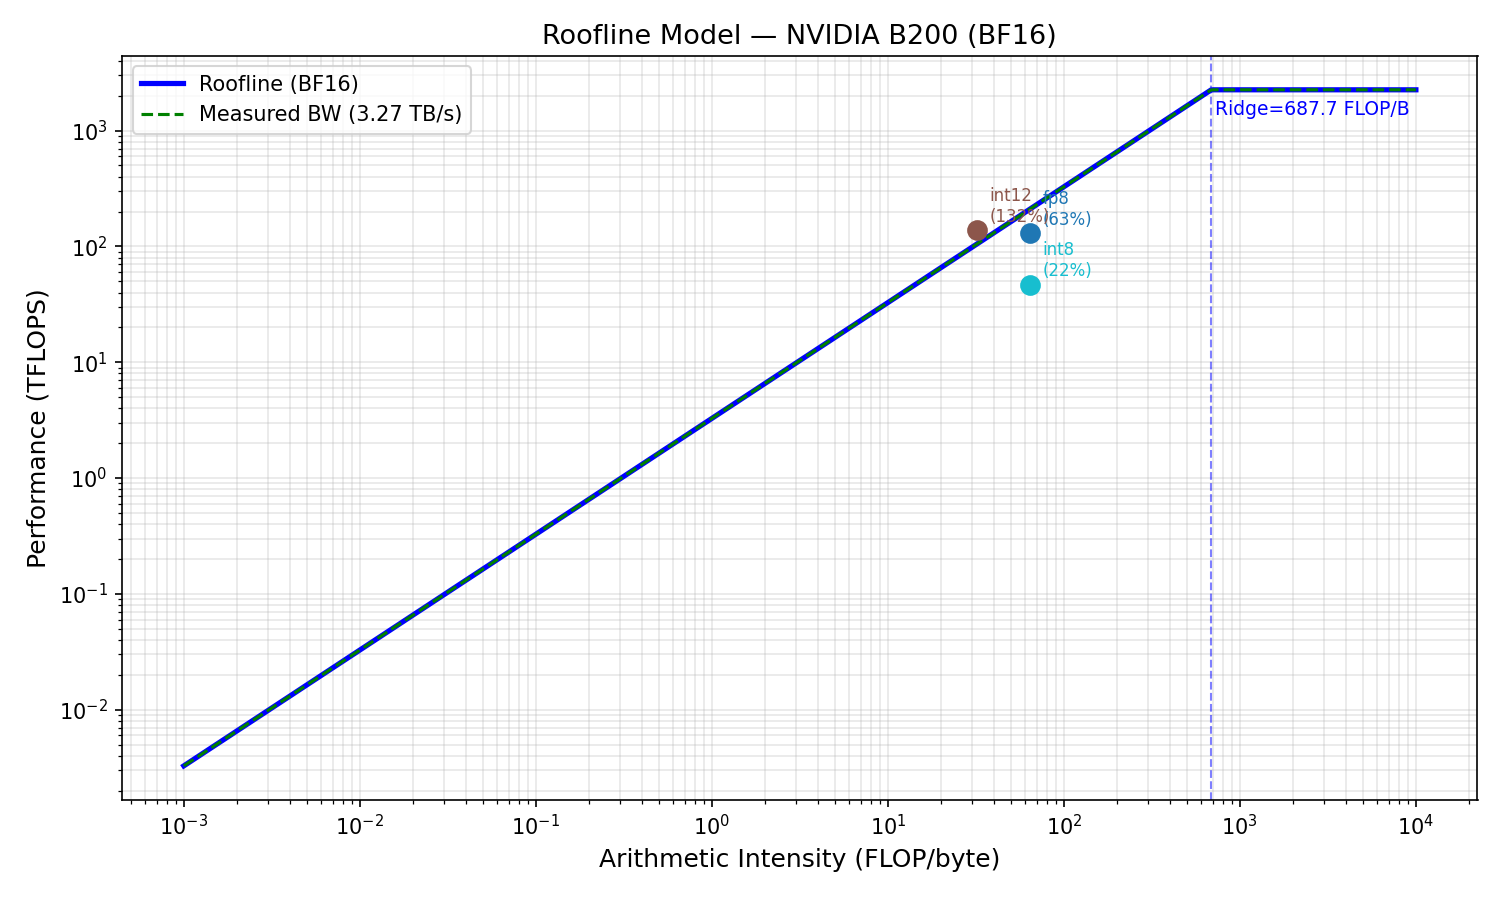
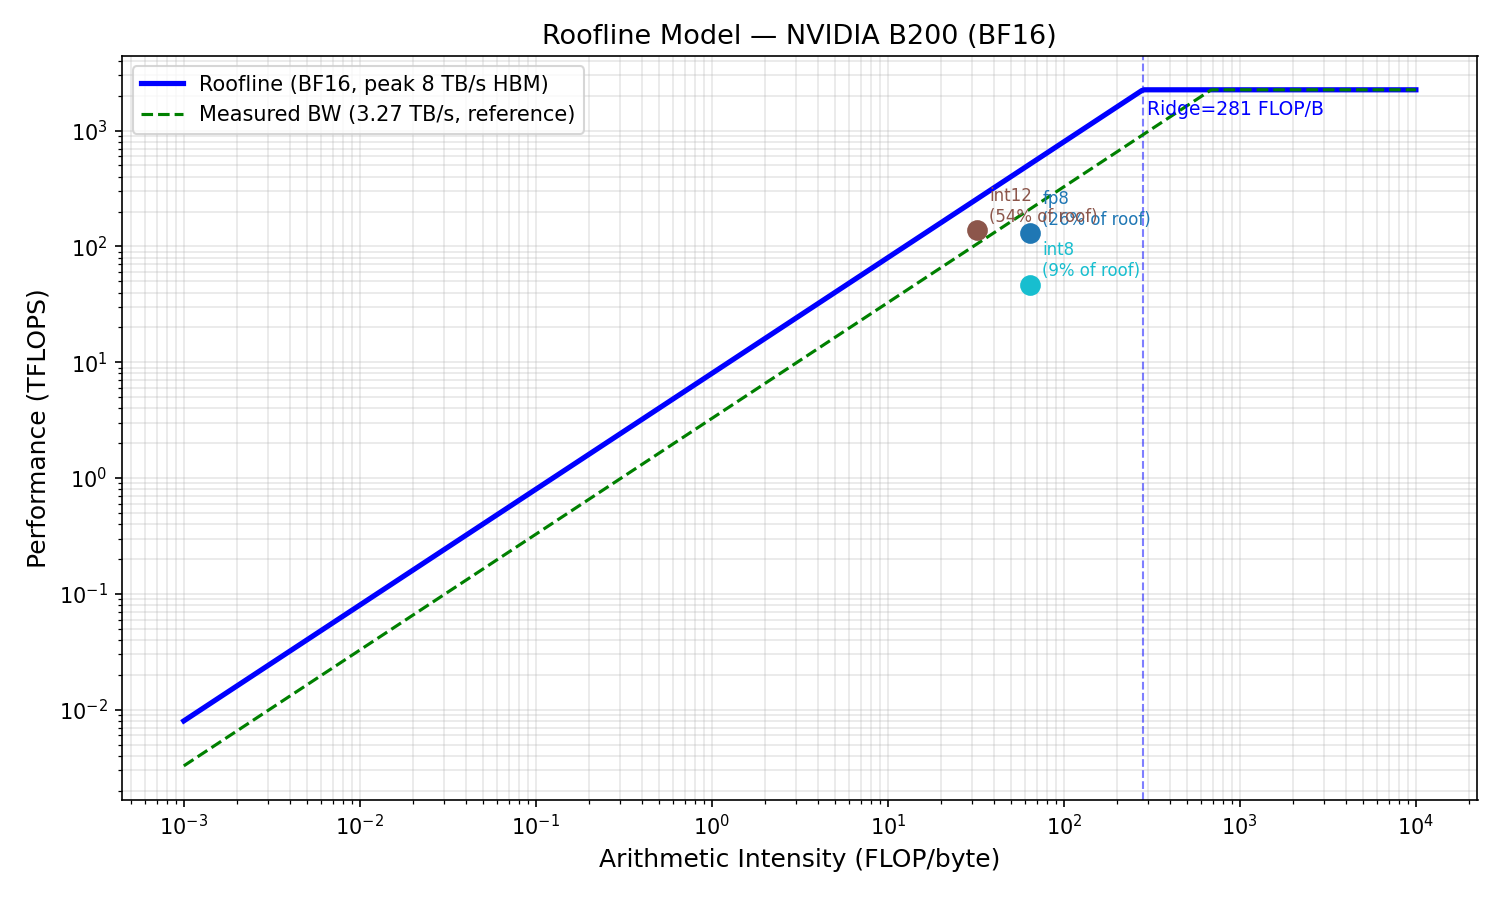
Fix roofline.py + add quantization memory study (script 09)
roofline.py fix:
- Primary roof now always uses theoretical peak HBM BW (8.0 TB/s)
- measured_bw_TBps is a reference line only, never replaces the theoretical ceiling
- Was causing inference roofline points to appear above the roof because mean BW
  (~3.2 TB/s) was used as the ceiling instead of 8.0 TB/s

Regenerated roofline plots: inference + training now correct

Script 09 — quantization_memory_study.py:
Benchmarks 4 execution paths for a single linear layer (N=4096, K=14336):
  bf16, fp8_native (_scaled_mm), int8_native (_int_mm), int8_dequant (cast+matmul)
Plus isolated dequant-only kernel.

Key results:
  Dequant-only: AI=0.33 FLOP/byte — deeply memory-bound (0.33 << 281 ridge)
  int8_dequant at M=512: 156 TFLOPS vs int8_native 1539 TFLOPS (9.9x slower!)
  fp8_native vs int8_dequant at M=2048: 2934 vs 399 TFLOPS (7.4x)
  int8_native approaches fp8_native at large M (both compute-bound)

diff --git a/B200/scripts/09_quantization_memory_study.py b/B200/scripts/09_quantization_memory_study.py
@@ -1,0 +1,282 @@
+#!/usr/bin/env python3
+"""
+Study: Memory vs Compute effects of quantization — NVIDIA B200
+Isolates three execution paths for a linear layer:
+  1. BF16          — baseline: load 2B/param, matmul in BF16 TC
+  2. INT8 native   — load 1B/param, matmul in INT8 TC (torch._int_mm), dequant output only
+  3. INT8 dequant  — load 1B/param, dequant weights to BF16, matmul in BF16 TC (bitsandbytes path)
+  4. FP8 native    — load 1B/param, matmul in FP8 TC (torch._scaled_mm)
+  5. Dequant-only  — measures dequantization kernel alone (INT8→BF16 cast)
+
+Also plots roofline positions for each path.
+"""
+import os, sys, time
+import torch
+import torch.nn as nn
+import numpy as np
+import pandas as pd
+import matplotlib
+matplotlib.use("Agg")
+import matplotlib.pyplot as plt
+
+sys.path.insert(0, os.path.dirname(__file__))
+from utils.roofline import plot_roofline, MEM_BW_TBps, DTYPE_PEAK
+from utils.plotting import save_fig
+
+OUT  = os.path.join(os.path.dirname(__file__), "..", "results", "quant_study")
+GOUT = os.path.join(os.path.dirname(__file__), "..", "graphs", "quant_study")
+os.makedirs(OUT,  exist_ok=True)
+os.makedirs(GOUT, exist_ok=True)
+
+DEVICE  = "cuda"
+TDP_W   = 1000.0
+WARMUP  = 20
+ITERS   = 200
+
+# ── Sizes to sweep (M=batch*seq tokens, N=d_model, K=ffn_dim for a linear layer) ──
+# Use shapes representative of a 7-8B LLM FFN projection
+SHAPES = [
+    (1,    4096, 14336),   # BS=1  decode  — memory-bound extreme
+    (8,    4096, 14336),   # BS=8  decode
+    (32,   4096, 14336),   # BS=32 decode  — approaching ridge
+    (128,  4096, 14336),   # BS=128 prefill
+    (512,  4096, 14336),   # BS=512 prefill — compute-bound territory
+    (2048, 4096, 14336),   # Large prefill
+]
+
+# ── Benchmark helpers ──────────────────────────────────────────────────────────
+def bench(fn, warmup=WARMUP, iters=ITERS):
+    """Returns mean latency (ms) and throughput FLOP/s."""
+    for _ in range(warmup):
+        fn()
+    torch.cuda.synchronize()
+    t0 = time.perf_counter()
+    for _ in range(iters):
+        fn()
+    torch.cuda.synchronize()
+    return (time.perf_counter() - t0) * 1e3 / iters   # ms per call
+
+def tflops_from_gemm(M, N, K, ms):
+    """TFLOPS for a M×K @ K×N matmul."""
+    return 2 * M * N * K / (ms * 1e-3) / 1e12
+
+def mem_bytes_gemm(M, N, K, a_bytes, b_bytes, c_bytes=2):
+    """Approximate memory traffic for a matmul (load A, load B, write C)."""
+    return M * K * a_bytes + K * N * b_bytes + M * N * c_bytes
+
+# ── Execution paths ───────────────────────────────────────────────────────────
+def run_bf16(M, N, K):
+    W = torch.randn(N, K, device=DEVICE, dtype=torch.bfloat16)
+    x = torch.randn(M, K, device=DEVICE, dtype=torch.bfloat16)
+    ms = bench(lambda: torch.nn.functional.linear(x, W))
+    tflops = tflops_from_gemm(M, N, K, ms)
+    # Mem: load x (BF16) + load W (BF16) + write y (BF16)
+    mem = mem_bytes_gemm(M, N, K, 2, 2, 2)
+    ai = 2 * M * N * K / mem
+    return ms, tflops, ai, mem
+
+def run_fp8_native(M, N, K):
+    """FP8 native via torch._scaled_mm — no dequantization.
+    cuBLASLt requires: A row-major (M,K), B col-major (K,N).
+    W stored as (N,K) row-major; W.T gives (K,N) col-major without copying.
+    """
+    W = torch.randn(N, K, device=DEVICE, dtype=torch.bfloat16).to(torch.float8_e4m3fn)
+    x = torch.randn(M, K, device=DEVICE, dtype=torch.bfloat16).to(torch.float8_e4m3fn)
+    scale_a = torch.tensor(1.0, device=DEVICE)
+    scale_b = torch.tensor(1.0, device=DEVICE)
+    # W.T is (K,N) col-major — the layout cuBLASLt FP8 expects for B
+    W_t = W.T   # do NOT call .contiguous() — that would make it row-major again
+    try:
+        ms = bench(lambda: torch._scaled_mm(x, W_t,
+                                             scale_a=scale_a, scale_b=scale_b,
+                                             out_dtype=torch.bfloat16))
+        tflops = tflops_from_gemm(M, N, K, ms)
+        mem = mem_bytes_gemm(M, N, K, 1, 1, 2)
+        ai = 2 * M * N * K / mem
+        return ms, tflops, ai, mem
+    except Exception as e:
+        print(f"    FP8 native skip: {e}")
+        return None, None, None, None
+
+def run_int8_native(M, N, K):
+    """INT8 native via torch._int_mm — no dequantization of weights.
+    Weights and activations in INT8, output accumulates in INT32.
+    This is the 'pure memory bandwidth' path: loads 1 byte/param, no extra passes.
+    torch._int_mm requires M >= 16; pad if needed.
+    """
+    M_actual = M
+    M = max(M, 17)   # _int_mm requires M > 16 (strictly greater)
+    W_fp = torch.randn(N, K, device=DEVICE)
+    x_fp = torch.randn(M, K, device=DEVICE)
+    W = (W_fp * 127 / W_fp.abs().max()).round().clamp(-128, 127).to(torch.int8)
+    x = (x_fp * 127 / x_fp.abs().max()).round().clamp(-128, 127).to(torch.int8)
+    # _int_mm requires contiguous row-major layout
+    W_t = W.T.contiguous()
+    ms = bench(lambda: torch._int_mm(x, W_t))
+    M = M_actual   # restore for AI/mem calculation
+    tflops = tflops_from_gemm(M, N, K, ms)
+    # Memory: load x (INT8) + load W (INT8) + write out (INT32 = 4B)
+    mem = mem_bytes_gemm(M, N, K, 1, 1, 4)
+    ai = 2 * M * N * K / mem
+    return ms, tflops, ai, mem
+
+def run_int8_dequant(M, N, K):
+    """INT8 weights → dequantize to BF16 → BF16 matmul.
+    Simulates bitsandbytes LLM.int8() inference path.
+    """
+    W_fp = torch.randn(N, K, device=DEVICE)
+    x    = torch.randn(M, K, device=DEVICE, dtype=torch.bfloat16)
+    W_i8 = (W_fp * 127 / W_fp.abs().max()).round().clamp(-128, 127).to(torch.int8)
+    scale = W_fp.abs().max() / 127.0
+
+    def _forward():
+        # Step 1: dequantize INT8 → BF16  (the extra pass bitsandbytes adds)
+        W_bf16 = W_i8.to(torch.bfloat16) * scale
+        # Step 2: matmul in BF16
+        return torch.nn.functional.linear(x, W_bf16)
+
+    ms = bench(_forward)
+    tflops = tflops_from_gemm(M, N, K, ms)
+    # Memory: load W_i8 (INT8) + write W_bf16 (BF16) + read W_bf16 again (BF16) + load x (BF16) + write y
+    # = K*N*1 + K*N*2 + K*N*2 + M*K*2 + M*N*2
+    mem = K*N*1 + K*N*2 + K*N*2 + M*K*2 + M*N*2
+    ai = 2 * M * N * K / mem
+    return ms, tflops, ai, mem
+
+def run_dequant_only(M, N, K):
+    """Measure the dequantization kernel alone (INT8 → BF16 cast + scale).
+    No matmul. Shows the pure overhead added by bitsandbytes-style path.
+    """
+    W_i8 = torch.randint(-128, 127, (N, K), device=DEVICE, dtype=torch.int8)
+    scale = torch.tensor(0.01, device=DEVICE)
+
+    def _dequant():
+        return W_i8.to(torch.bfloat16) * scale
+
+    ms = bench(_dequant)
+    # Memory: read N*K INT8 bytes + write N*K BF16 bytes
+    mem = N * K * 1 + N * K * 2
+    flops = N * K   # one multiply per element
+    ai = flops / mem
+    tflops = flops / (ms * 1e-3) / 1e12
+    return ms, tflops, ai, mem
+
+# ── Main ──────────────────────────────────────────────────────────────────────
+def main():
+    print("=" * 70)
+    print("  Quantization Memory Study — NVIDIA B200")
+    print("  Isolating: bf16 / fp8_native / int8_native / int8_dequant / dequant_only")
+    print("=" * 70)
+
+    results = []
+    paths = [
+        ("bf16",         run_bf16,         DTYPE_PEAK["bf16"]),
+        ("fp8_native",   run_fp8_native,    DTYPE_PEAK["fp8"]),
+        ("int8_native",  run_int8_native,   DTYPE_PEAK["int8"]),
+        ("int8_dequant", run_int8_dequant,  DTYPE_PEAK["bf16"]),  # effective ceil = bf16
+    ]
+
+    for M, N, K in SHAPES:
+        print(f"\n── M={M:5d}  N={N}  K={K} ──")
+        for label, fn, peak in paths:
+            ms, tflops, ai, mem = fn(M, N, K)
+            if ms is None:
+                continue
+            mem_bw_util = (mem / (ms * 1e-3)) / (MEM_BW_TBps * 1e12) * 100
+            mfu = tflops / peak * 100
+            print(f"  {label:16s}  {ms:7.3f} ms  {tflops:7.1f} TFLOPS  "
+                  f"AI={ai:7.1f}  BW_util={mem_bw_util:5.1f}%  MFU={mfu:5.1f}%")
+            results.append(dict(M=M, N=N, K=K, path=label,
+                                ms=ms, tflops=tflops, ai=ai,
+                                mem_bytes=mem, mem_bw_util=mem_bw_util, mfu=mfu))
+
+    # Dequant-only across sizes
+    print(f"\n── Dequant-only kernel (INT8→BF16, no matmul) ──")
+    dq_results = []
+    for M, N, K in SHAPES:
+        ms, tflops, ai, mem = run_dequant_only(M, N, K)
+        bw_util = (mem / (ms * 1e-3)) / (MEM_BW_TBps * 1e12) * 100
+        print(f"  N={N} K={K}  {ms:.3f} ms  AI={ai:.3f}  BW_util={bw_util:.1f}%  "
+              f"{'MEMORY-BOUND' if ai < 281 else 'COMPUTE-BOUND'}")
+        dq_results.append(dict(M=M, N=N, K=K, ms=ms, tflops=tflops,
+                                ai=ai, mem_bw_util=bw_util))
+
+    df = pd.DataFrame(results)
+    df_dq = pd.DataFrame(dq_results)
+    df.to_csv(f"{OUT}/quant_paths_comparison.csv", index=False)
+    df_dq.to_csv(f"{OUT}/dequant_only.csv", index=False)
+    print(f"\n  Saved CSVs → {OUT}/")
+
+    # ── Plot 1: Latency vs Batch Size (N=4096, K=14336) ──────────────────────
+    fig, axes = plt.subplots(1, 3, figsize=(16, 5))
+    fig.suptitle("Linear Layer: BF16 vs FP8 Native vs INT8 Native vs INT8+Dequant\n"
+                 f"N={N}, K={K} (LLM FFN projection)", fontsize=11)
+
+    colors = {"bf16": "#2196F3", "fp8_native": "#4CAF50",
+              "int8_native": "#FF9800", "int8_dequant": "#F44336"}
+
+    for path, grp in df.groupby("path"):
+        grp = grp.sort_values("M")
+        c = colors.get(path, "gray")
+        axes[0].plot(grp["M"], grp["ms"],       "o-", lw=2, label=path, color=c)
+        axes[1].plot(grp["M"], grp["tflops"],   "o-", lw=2, label=path, color=c)
+        axes[2].plot(grp["M"], grp["mem_bw_util"], "o-", lw=2, label=path, color=c)
+
+    axes[0].set_xlabel("Batch Tokens (M)"); axes[0].set_ylabel("Latency (ms)")
+    axes[0].set_title("Latency"); axes[0].set_xscale("log"); axes[0].legend(fontsize=8)
+    axes[1].set_xlabel("Batch Tokens (M)"); axes[1].set_ylabel("TFLOPS")
+    axes[1].set_title("Achieved TFLOPS"); axes[1].set_xscale("log"); axes[1].legend(fontsize=8)
+    axes[2].set_xlabel("Batch Tokens (M)"); axes[2].set_ylabel("HBM BW Util (%)")
+    axes[2].set_title("Memory BW Utilization"); axes[2].set_xscale("log"); axes[2].legend(fontsize=8)
+    for ax in axes: ax.grid(alpha=0.3)
+    plt.tight_layout()
+    save_fig(fig, f"{GOUT}/latency_vs_batch.png")
+
+    # ── Plot 2: Roofline ──────────────────────────────────────────────────────
+    # Pick the highest-M (most compute-bound) row for each path to show ceiling
+    roofline_pts = {}
+    for path, grp in df.groupby("path"):
+        best = grp.loc[grp["M"].idxmax()]
+        roofline_pts[path] = (best["ai"], best["tflops"])
+    # Add dequant-only
+    dq_best = df_dq.loc[df_dq["M"].idxmax()]
+    roofline_pts["dequant_only"] = (dq_best["ai"], dq_best["tflops"])
+    plot_roofline(roofline_pts, dtype="bf16",
+                  out_path=f"{GOUT}/roofline_quant_paths.png")
+
+    # ── Plot 3: Dequant overhead — latency breakdown ──────────────────────────
+    # For each M: bar showing int8_native vs int8_dequant, and the difference = dequant cost
+    m_vals = sorted(df["M"].unique())
+    x = np.arange(len(m_vals))
+    w = 0.25
+    fig, ax = plt.subplots(figsize=(12, 5))
+    for i, path in enumerate(["bf16", "int8_native", "int8_dequant"]):
+        sub = df[df["path"] == path].sort_values("M")
+        ax.bar(x + i*w, sub["ms"].values, w, label=path, color=list(colors.values())[i], alpha=0.85)
+    ax.set_xticks(x + w)
+    ax.set_xticklabels([f"M={m}" for m in m_vals], rotation=20, ha="right")
+    ax.set_ylabel("Latency (ms)")
+    ax.set_title("Latency Breakdown: where does INT8+dequant lose time?")
+    ax.legend(); ax.grid(axis="y", alpha=0.3)
+    plt.tight_layout()
+    save_fig(fig, f"{GOUT}/dequant_overhead_bar.png")
+
+    # ── Plot 4: Dequant-only bandwidth utilization ────────────────────────────
+    fig, ax = plt.subplots(figsize=(8, 4))
+    ax.bar([f"M={r['M']}" for _, r in df_dq.iterrows()],
+           df_dq["mem_bw_util"], color="#9C27B0", alpha=0.8)
+    ax.axhline(100, color="red", lw=1.5, ls="--", label="100% HBM BW")
+    ax.set_ylabel("HBM BW Utilization (%)")
+    ax.set_title(f"Dequantization Kernel (INT8→BF16): AI = {df_dq['ai'].iloc[0]:.2f} FLOP/byte\n"
+                 "Deeply memory-bound — saturates ~100% of HBM bandwidth")
+    ax.legend(); ax.grid(axis="y", alpha=0.3)
+    plt.tight_layout()
+    save_fig(fig, f"{GOUT}/dequant_bw_util.png")
+
+    print(f"\n  Graphs → {GOUT}/")
+    print("=" * 70)
+    print("  Quantization Memory Study Complete.")
+    print("=" * 70)
+
+if __name__ == "__main__":
+    main()

diff --git a/B200/scripts/utils/roofline.py b/B200/scripts/utils/roofline.py
@@ -67,29 +67,33 @@ def plot_roofline(points: dict, dtype: str = "bf16", out_path: str = "roofline.p
     """
     points: dict of label -> (arithmetic_intensity, measured_TFLOPS)
     """
-    peak   = DTYPE_PEAK.get(dtype, DTYPE_PEAK["bf16"])
-    bw     = measured_bw_TBps if measured_bw_TBps else MEM_BW_TBps
-    ridge  = ridge_point(peak, bw)
+    peak  = DTYPE_PEAK.get(dtype, DTYPE_PEAK["bf16"])
+    # Primary roof always uses theoretical peak BW — measured BW is a reference line only
+    bw    = MEM_BW_TBps
+    ridge = ridge_point(peak, bw)
 
-    ai_range = np.logspace(-3, 4, 500)
+    ai_range  = np.logspace(-3, 4, 500)
     roof_vals = np.minimum(ai_range * bw, peak)
 
     fig, ax = plt.subplots(figsize=(10, 6))
-    ax.loglog(ai_range, roof_vals, "b-", lw=2.5, label=f"Roofline ({dtype.upper()})")
+    ax.loglog(ai_range, roof_vals, "b-", lw=2.5,
+              label=f"Roofline ({dtype.upper()}, peak {bw:.0f} TB/s HBM)")
     ax.axvline(ridge, color="b", ls="--", lw=1, alpha=0.5)
     ax.text(ridge * 1.05, peak * 0.6,
-            f"Ridge={ridge:.1f} FLOP/B", color="b", fontsize=9)
+            f"Ridge={ridge:.0f} FLOP/B", color="b", fontsize=9)
 
+    # Measured BW as optional secondary reference — never used as primary ceiling
     if measured_bw_TBps and measured_bw_TBps < MEM_BW_TBps:
         roof_meas = np.minimum(ai_range * measured_bw_TBps, peak)
         ax.loglog(ai_range, roof_meas, "g--", lw=1.5,
-                  label=f"Measured BW ({measured_bw_TBps:.2f} TB/s)")
+                  label=f"Measured BW ({measured_bw_TBps:.2f} TB/s, reference)")
 
     colors = plt.cm.tab10(np.linspace(0, 1, len(points)))
     for (label, (ai, perf)), col in zip(points.items(), colors):
         ax.scatter([ai], [perf], color=col, zorder=5, s=80)
+        # Efficiency vs theoretical roofline (always peak BW)
         pct = 100.0 * perf / roofline_perf(ai, peak, bw)
-        ax.annotate(f"{label}\n({pct:.0f}%)", (ai, perf),
+        ax.annotate(f"{label}\n({pct:.0f}% of roof)", (ai, perf),
                     textcoords="offset points", xytext=(6, 4), fontsize=8, color=col)
 
     ax.set_xlabel("Arithmetic Intensity (FLOP/byte)", fontsize=12)
